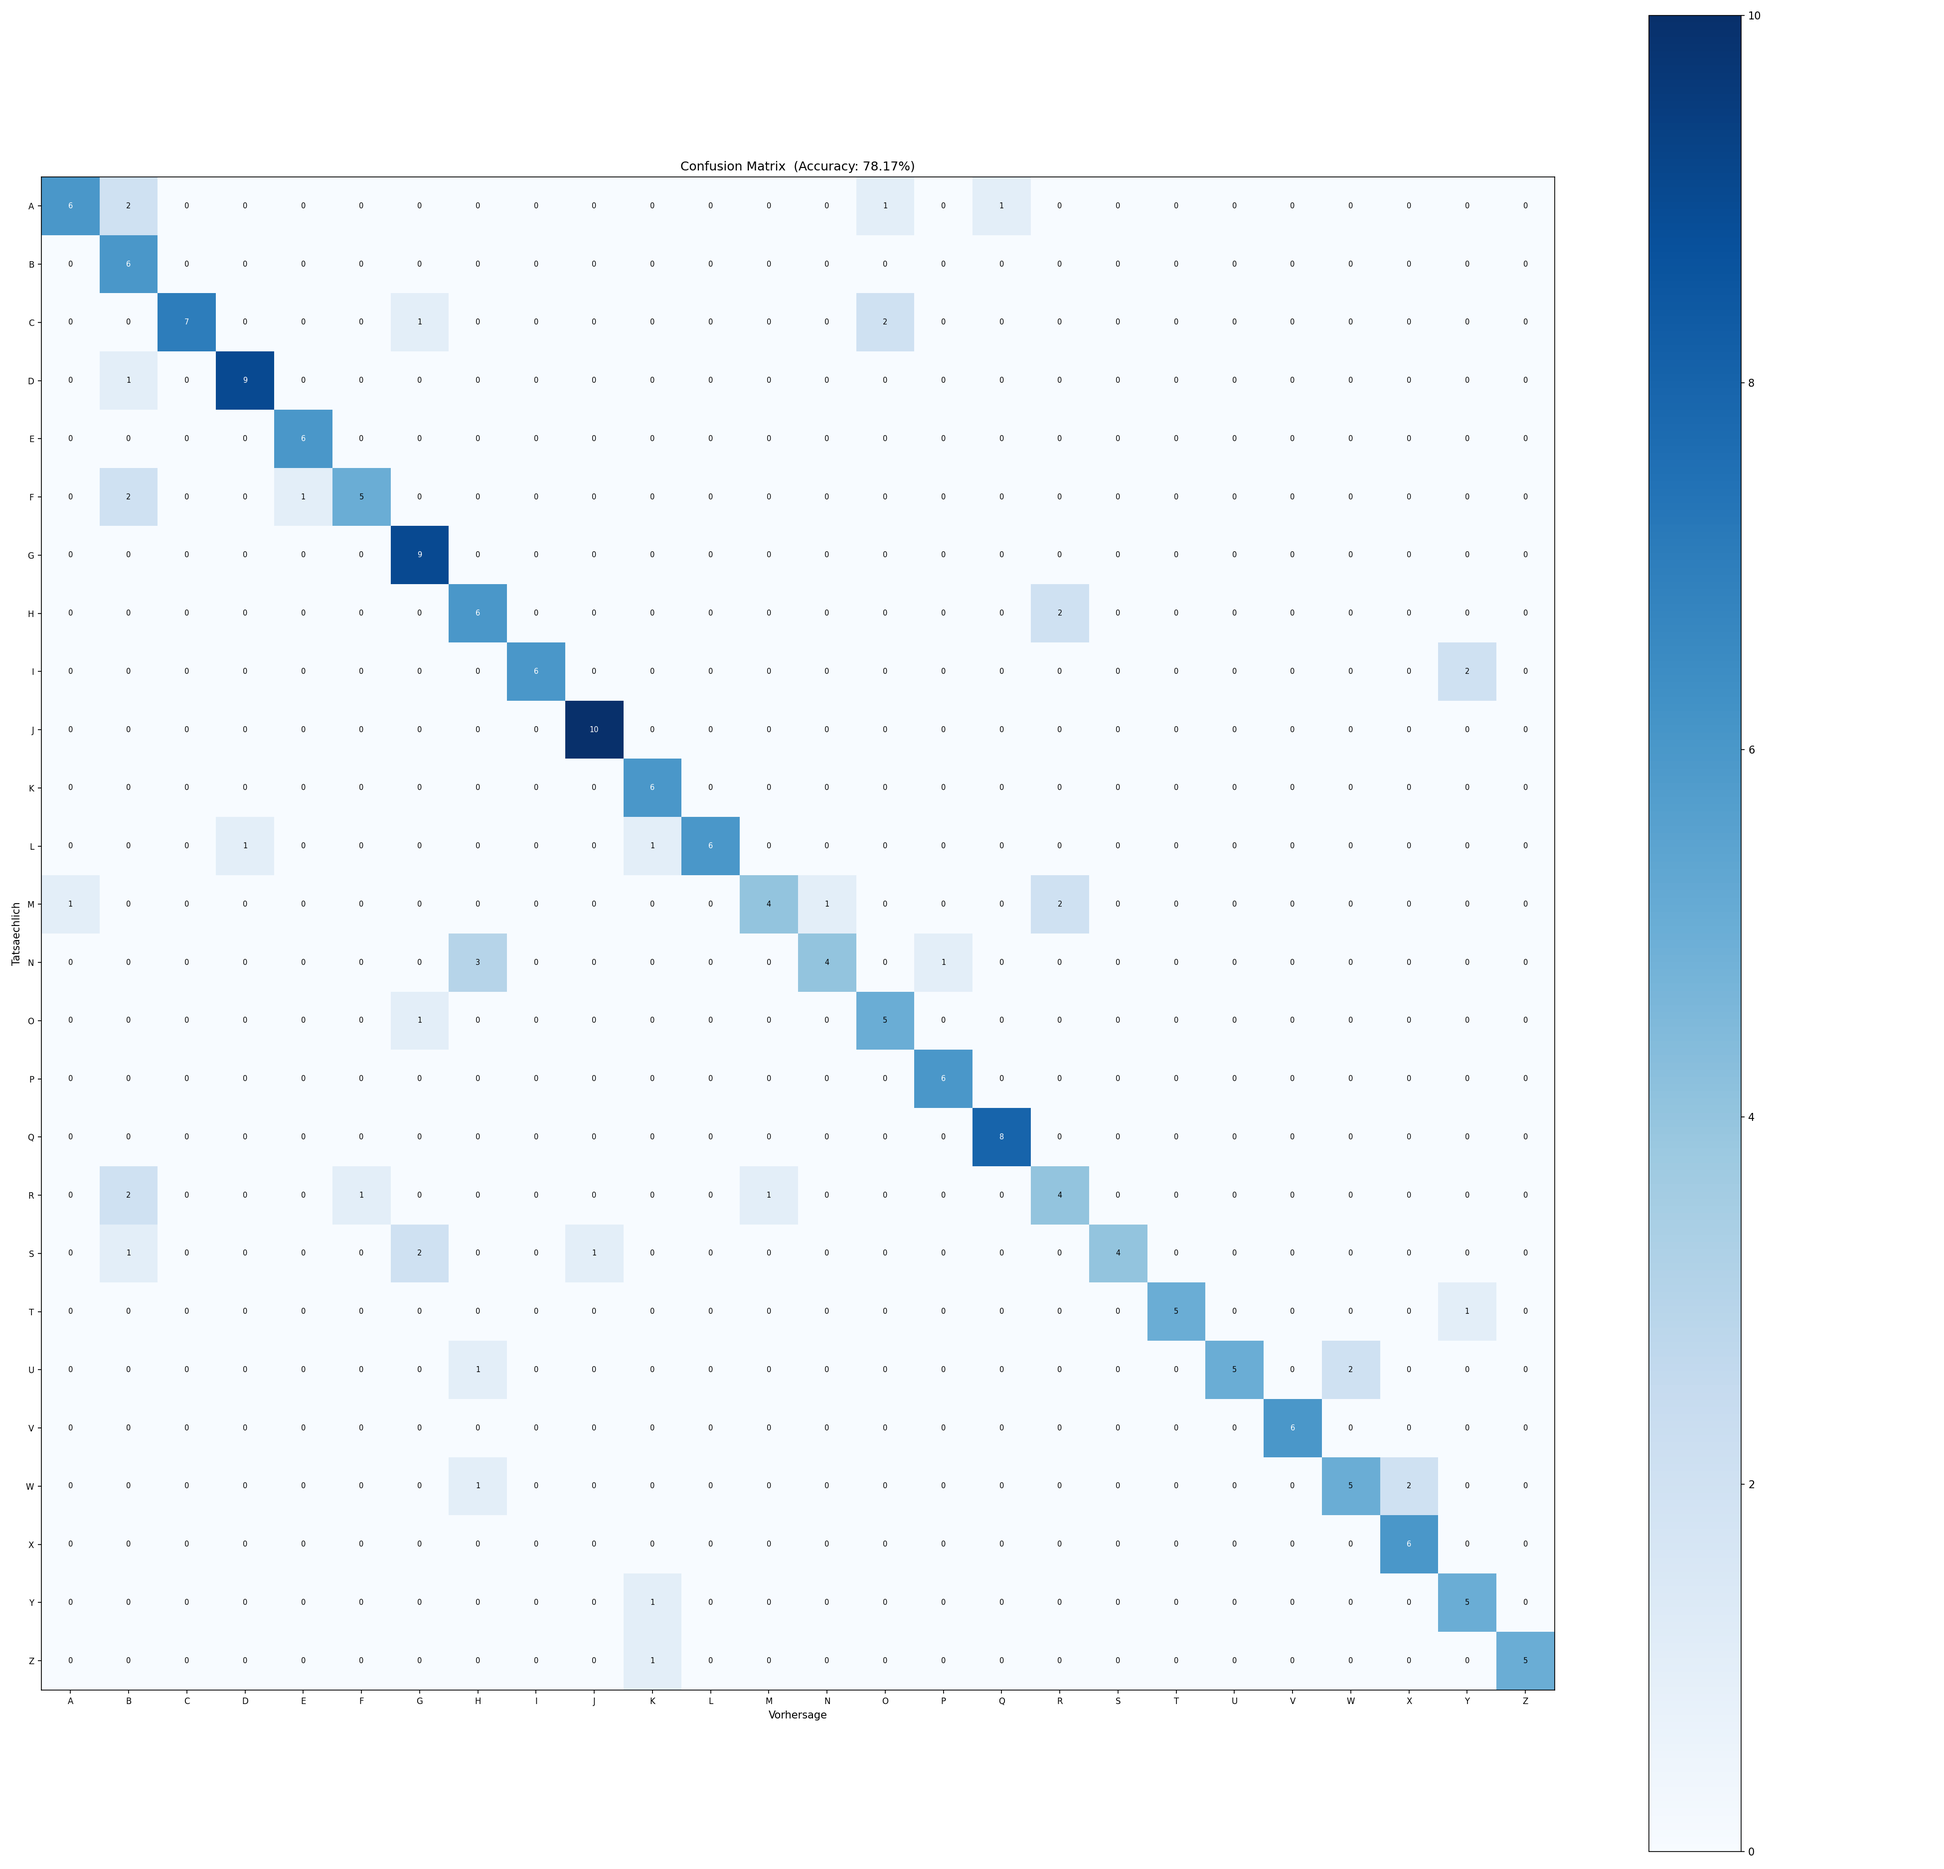
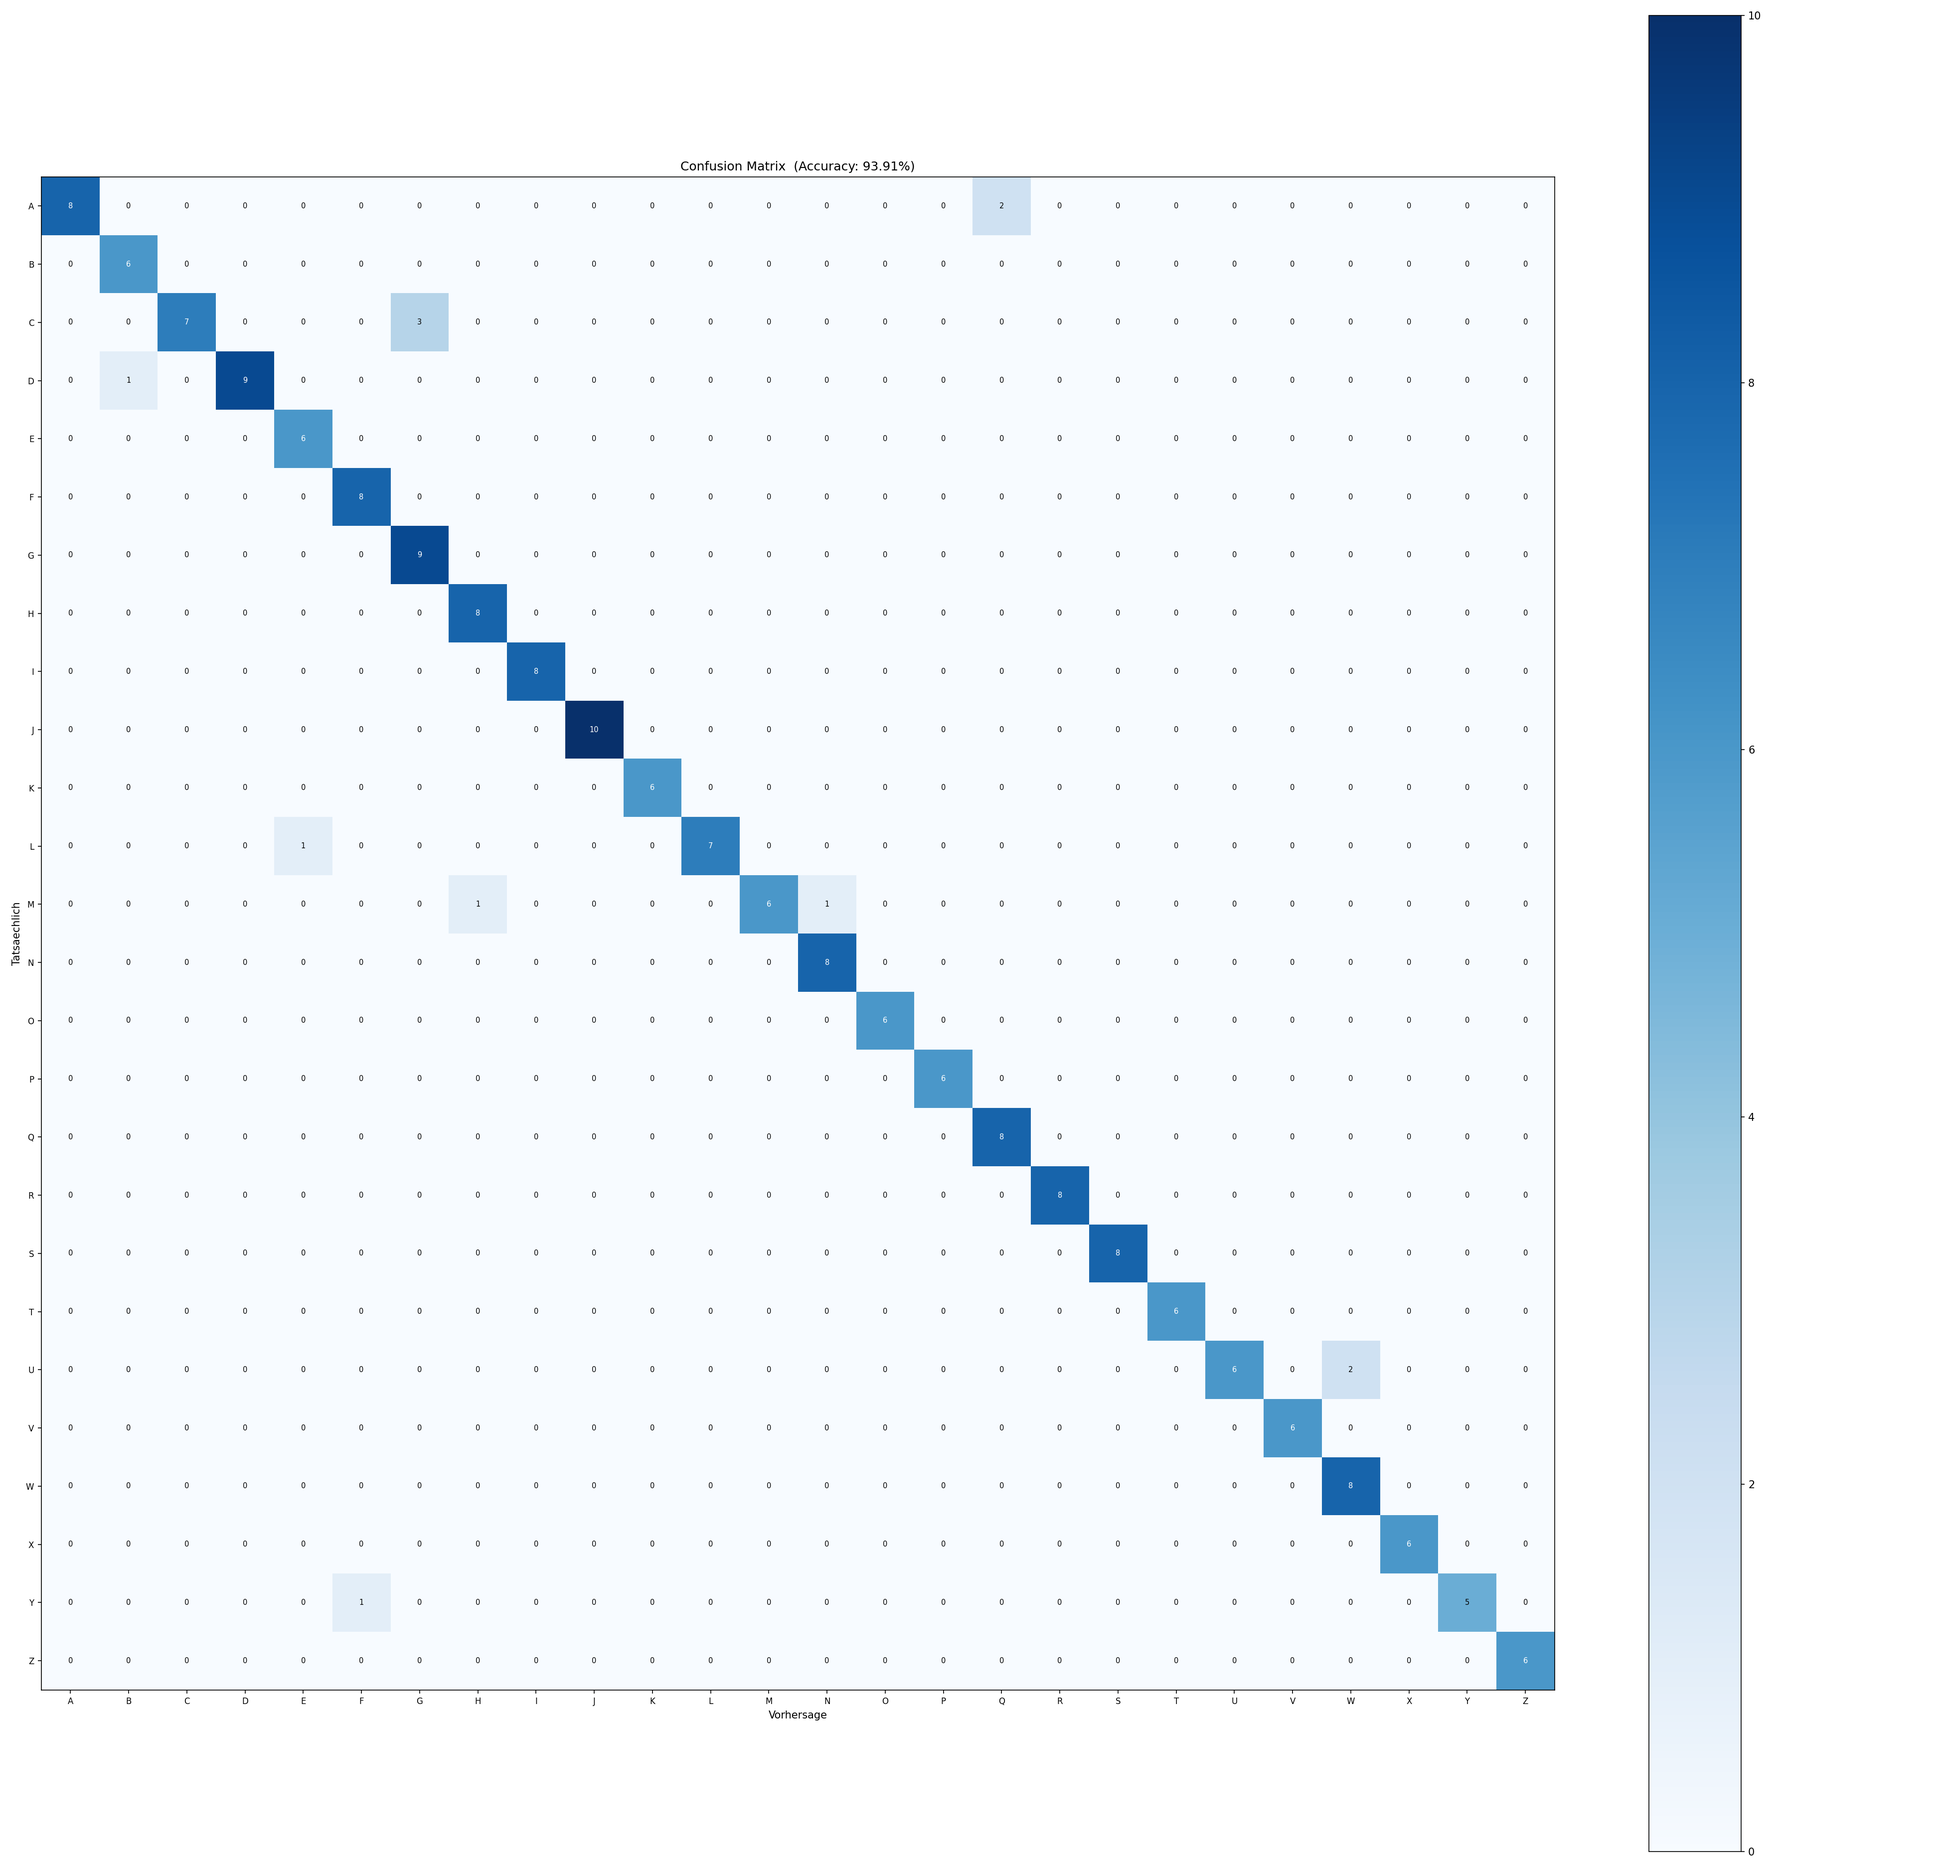
Bogenlängen-Resampling + n_states=12: Accuracy 71%→94%

diff --git a/GestureRecognition/labeling.py b/GestureRecognition/labeling.py
@@ -43,6 +43,7 @@ GESTURE_MODEL = PROJECT_ROOT / "gesture_recognizer.task"  # MediaPipe Gesture Re
 
 FINGER_IDX = 8          # Zeigefinger-Spitze (gleicher Wert wie im Preprocessor)
 MIN_SEQUENCE_LEN = 8    # kürzere Aufnahmen werfen wir beim Datensatz-Bau raus
+N_RESAMPLE = 32         # feste Punktzahl nach Bogenlängen-Resampling (Training == Live!)
 
 # Steuer-Gesten (Namen kommen so vom MediaPipe Gesture Recognizer)
 START_GESTURE = "Pointing_Up"
@@ -236,15 +237,45 @@ def _next_index(label_dir: Path, label: str) -> int:
 
 # --- Datensatz bauen ---------------------------------------------------------
 
+def resample_trajectory(points, n=N_RESAMPLE):
+    """
+    Trajektorie per Bogenlänge auf ``n`` feste Punkte umtasten.
+
+    Warum: Aufnahmen haben unterschiedliche Länge/Geschwindigkeit - ein langsam
+    gemaltes "M" hat mehr Punkte als ein schnelles. Das HMM sieht dann pro Geste
+    andere Sequenzlängen und Punktdichten. Nach dem Umtasten hat JEDE Geste gleich
+    viele, entlang des Pfads gleichmäßig verteilte Punkte -> geschwindigkeits- und
+    längeninvariant. (Grösster Hebel für die Accuracy, empirisch belegt.)
+
+    Wichtig: identisch im Preprocessor live (modules/preprocessor.py)!
+    """
+    points = np.asarray(points, dtype=float)
+    if len(points) < 2:
+        # zu wenig Signal zum Interpolieren -> einzigen Punkt vervielfachen
+        return np.repeat(points[:1], n, axis=0) if len(points) else points
+    # kumulative Bogenlänge entlang der Spur
+    seg = np.sqrt((np.diff(points, axis=0) ** 2).sum(axis=1))
+    dist = np.concatenate([[0.0], np.cumsum(seg)])
+    if dist[-1] == 0:
+        return np.repeat(points[:1], n, axis=0)   # alle Punkte gleich (kein Weg)
+    u = dist / dist[-1]                            # 0..1 entlang des Pfads
+    t = np.linspace(0.0, 1.0, n)                   # n gleichmäßige Stützstellen
+    x = np.interp(t, u, points[:, 0])
+    y = np.interp(t, u, points[:, 1])
+    return np.stack([x, y], axis=1)
+
+
 def normalize_trajectory(points):
     """
     Trajektorie normalisieren - genau wie im Preprocessor (modules/preprocessor.py).
 
-    Zentrum abziehen und auf [-1, 1] skalieren. Dadurch wird die Geste
-    unabhängig davon, *wo* im Bild und *wie groß* sie ausgeführt wurde.
+    1. Bogenlängen-Resampling auf feste Punktzahl (geschwindigkeits-/längeninvariant).
+    2. Zentrum abziehen und auf [-1, 1] skalieren -> unabhängig von Ort und Größe.
+
     Wichtig: Training und Live-Erkennung müssen exakt gleich verarbeiten!
     """
     points = np.asarray(points, dtype=float)
+    points = resample_trajectory(points, N_RESAMPLE)   # NEU: erst auf feste Länge bringen
     center = points.mean(axis=0)
     points = points - center
     scale = np.abs(points).max()

diff --git a/GestureRecognition/modules/preprocessor.py b/GestureRecognition/modules/preprocessor.py
@@ -2,6 +2,28 @@ from SignalHub import GALY, get_nested_key, Module
 from collections import deque
 import numpy as np
 
+
+def resample_trajectory(points, n=32):
+    """Trajektorie per Bogenlänge auf ``n`` feste Punkte umtasten.
+
+    Muss IDENTISCH zu labeling.resample_trajectory sein - sonst passt die
+    Live-Eingabe nicht zu den Trainingsdaten. Macht die Geste geschwindigkeits-
+    und längeninvariant (gleich viele, gleichmäßig verteilte Punkte pro Geste).
+    """
+    points = np.asarray(points, dtype=float)
+    if len(points) < 2:
+        return np.repeat(points[:1], n, axis=0) if len(points) else points
+    seg = np.sqrt((np.diff(points, axis=0) ** 2).sum(axis=1))
+    dist = np.concatenate([[0.0], np.cumsum(seg)])
+    if dist[-1] == 0:
+        return np.repeat(points[:1], n, axis=0)
+    u = dist / dist[-1]
+    t = np.linspace(0.0, 1.0, n)
+    x = np.interp(t, u, points[:, 0])
+    y = np.interp(t, u, points[:, 1])
+    return np.stack([x, y], axis=1)
+
+
 class Preprocessor(Module):
     """
     Modul zur Vorverarbeitung von Fingertrajektorien.
@@ -110,6 +132,7 @@ class Preprocessor(Module):
         self.finger_idx = get_nested_key("preprocessor.finger_idx", config, default=8)
         self.max_lost = get_nested_key("preprocessor.max_lost", config, default=10)
         self.min_points = get_nested_key("preprocessor.min_points", config, default=10)
+        self.n_resample = get_nested_key("preprocessor.n_resample", config, default=32)
         trajectory_length = get_nested_key("preprocessor.trajectory_length", config, default=30)
         self.trajectory = deque(maxlen=trajectory_length)
         self.lost_frames = 0
@@ -189,6 +212,7 @@ class Preprocessor(Module):
             return {self.outputSignal: None}
 
         points = np.array(self.trajectory)
+        points = resample_trajectory(points, self.n_resample)  # feste Länge wie im Training
         center = points.mean(axis=0)
         points = points - center
         scale = np.abs(points).max()

diff --git a/GestureRecognition/hmmclassifier.py b/GestureRecognition/hmmclassifier.py
@@ -35,10 +35,11 @@ class HMMClassifier:
       (Klassen + Modelle + Hyperparameter) in einer ``.pkl``-Datei.
     """
 
-    def __init__(self, n_states=5, n_iter=20, covariance_type="diag", random_state=42):
+    def __init__(self, n_states=12, n_iter=20, covariance_type="diag", random_state=42):
         # Hyperparameter merken. n_states = Anzahl versteckter Zustaende (Phasen).
-        # n_states koennte optional per Grid Search getunt werden -> bewusst NICHT
-        # im Standard-Pfad, damit der Code einfach bleibt.
+        # 12 Zustaende: erst nutzbar, seit die Trajektorien per Resampling feste Laenge
+        # (32 Punkte) haben - vorher deckelte min(lengths) die Zustandszahl. Kreuz-
+        # validiert bester Wert (~95% vs. ~72% bei n_states=5 ohne Resampling).
         self.n_states = n_states
         self.n_iter = n_iter
         self.covariance_type = covariance_type   # "diag" = robust, je Zustand 2 Varianzen

diff --git a/DOKUMENTATION.md b/DOKUMENTATION.md
@@ -1,0 +1,112 @@
+# Gestenerkennung (A–Z in der Luft) — Projektdokumentation
+
+**Team:** [Namen]  ·  **Modul:** [Kurs]  ·  **Datum:** [Datum]
+
+> Kurzfassung: Ein HMM-basiertes System erkennt in die Luft „gemalte" Buchstaben
+> aus der Fingerspur. Kernbeitrag: durch bessere **Signalverarbeitung**
+> (Bogenlängen-Resampling) stieg die Genauigkeit von **~72 % auf ~94 %** —
+> **ohne** Trainingsdaten zu löschen.
+
+---
+
+## 1. Ziel & Umfang
+Erkennung der 26 Buchstaben A–Z, die mit der Zeigefingerspitze in die Luft
+gemalt werden. Umgesetzt sind alle geforderten Bausteine:
+Handerkennung + Vorverarbeitung, Labeling-System, Datensatz-Visualisierung,
+HMM-Klassifikator und Live-Betrieb.
+
+## 2. Pipeline (Architektur)
+```
+Webcam ──▶ HandDetector ──▶ TrailMarker (Anzeige der Spur)
+                │
+                └────────▶ Preprocessor ──▶ HMMModule ──▶ Label + Score
+        (MediaPipe          (Trajektorie          (26 HMMs,
+         Landmarken)         normalisiert)         argmax Log-Likelihood)
+```
+Kommunikation zwischen den Modulen über **SignalHub** (jedes Modul abonniert
+Signale und veröffentlicht ein Ergebnis-Signal).
+
+## 3. Datensatz
+- **26 Klassen** (A–Z), **~30–50 Aufnahmen je Klasse** (insgesamt ~981).
+- Aufnahme über Handgesten: Zeigefinger hoch = Start, Faust = Stopp.
+- Gespeichert als rohe (T, 2)-Fingerspur pro Aufnahme.
+- **Grundsatz:** keine Aufnahmen gelöscht — jede echte Aufnahme bleibt im
+  Datensatz (Signaldaten wegwerfen verzerrt; Robustheit kommt aus der
+  Verarbeitung, nicht aus dem Aussortieren).
+
+## 4. Vorverarbeitung & Design-Entscheidungen
+Jede Trajektorie wird **identisch in Training und Live** verarbeitet:
+
+1. **Bogenlängen-Resampling auf feste 32 Punkte.** Aufnahmen sind
+   unterschiedlich lang/schnell — ein langsames „M" hat mehr Punkte als ein
+   schnelles. Nach dem Umtasten hat *jede* Geste gleich viele, entlang des
+   Pfads gleichmäßig verteilte Punkte → **geschwindigkeits- und
+   längeninvariant**. (Grösster Hebel, siehe §6.)
+2. **Zentrieren + Skalieren** auf [−1, 1] → unabhängig von Ort und Größe im Bild.
+
+*Verworfene Alternativen (empirisch getestet):* Richtungs-/Winkel-Features und
+Glättung — machten es **schlechter** (verstärkten Jitter). Deshalb bewusst
+einfache, resampelte (x, y)-Punkte.
+
+## 5. Klassifikator (HMM)
+- **Ein GaussianHMM pro Klasse** (hmmlearn). Versteckte Zustände ≈ Phasen der
+  Geste (Anfang → Mitte → Ende).
+- **`n_states = 12`** (vorher 5). Mehr Zustände wurden erst durch die feste
+  Länge (32 Punkte) möglich — vorher deckelte die kürzeste Sequenz die Zahl.
+- Klassifikation: eine neue Spur wird unter jedem Modell bewertet
+  (Forward-Algorithmus, Log-Likelihood), **argmax** über die Klassen.
+
+## 6. Evaluation & Verlauf
+Alle Zahlen auf **identischen Daten, nichts gelöscht**. CV = 5-fache
+Kreuzvalidierung (Mittel ± Std), Test = einzelner 80/20-Split.
+
+| Stufe | Verarbeitung | Genauigkeit |
+|---|---|---|
+| Ausgang | roh, variable Länge, `n_states=5` | 71,2 % (Test) · 71,9 % ± 4,4 % (CV) |
+| + Resampling(32) | feste Länge | 81,4 % ± 4,9 % (CV) |
+| **+ `n_states=12`** | feste Länge erlaubt mehr Zustände | **94,9 % ± 0,9 % (CV) · 93,9 % (Test)** |
+
+Ablation (verworfen): Richtungs-Features 64 % · Glättung+Richtung 51,8 %.
+
+**Warum Kreuzvalidierung:** Ein einzelner 80/20-Split kann Glück sein — bei uns
+zeigte er 91 %, die ehrlichere CV 81 %. Die kleine Streuung (± 0,9 %) belegt,
+dass ~95 % **stabil** und kein Zufall sind.
+
+**Confusion Matrix** (`confusion_matrix.png`): Diagonale klar dominant.
+Frühere Problem-Buchstaben nach den Änderungen: D 1/6 → 9/10, R 1/6 → 8/8,
+A 2/6 → 8/10, M 1/6 → 6/8. Restverwechslungen betreffen formähnliche Paare
+(z. B. C↔G), was fachlich plausibel ist.
+
+## 7. Live-Betrieb & Robustheit
+- Live läuft die gleiche Verarbeitung wie im Training (garantiert identisches
+  Resampling → Training-/Live-Konsistenz per Test bestätigt).
+- **Bekannte Grenze:** Live wird ein **gleitendes Fenster** der letzten Punkte
+  jedes Frame klassifiziert, im Training dagegen **ganze** Gesten. Dadurch kann
+  die Anzeige während des Malens wechseln; die finale Vorhersage (fertiger
+  Buchstabe) ist maßgeblich. Gegenmaßnahme/Ausblick: Ausgabe-Glättung
+  (Mehrheitsvotum) bzw. bewegungsbasierte Segmentierung.
+- **Offline vs. Live:** ~94 % gelten für *unsere* Hände; bei einer fremden Hand
+  (Prüfer) ist mit weniger zu rechnen → Ausblick: Aufnahmen mehrerer Personen.
+
+## 8. Grenzen & Ausblick
+- Aufnahmen mehrerer Personen für bessere Generalisierung.
+- Bewegungsbasierte Segmentierung im Live-Betrieb (Geste = von Bewegung bis
+  Stillstand) statt gleitendem Fenster.
+- `n_states`/Resample-Länge weiter tunen (leichte Reserve sichtbar).
+
+## 9. Reproduzieren
+```cmd
+:: Umgebung
+call "C:\ProgramData\miniconda3\Scripts\activate.bat" dsai
+:: nach neuen Aufnahmen: Datensatz bauen -> trainieren -> auswerten
+python -c "from GestureRecognition.labeling import dataset_building; dataset_building('data/dataset.pkl')"
+python train_hmm.py
+python -m GestureRecognition.visualization evaluate
+:: Live
+python main.py
+```
+
+---
+*Bewertungsbezug: §2/§7 → Funktionalität & Robustheit · §3/§4 → Datenqualität ·
+§4–§6 → Modellperformance · durchgängig §1–§8 → Verständlichkeit &
+Nachvollziehbarkeit.*
